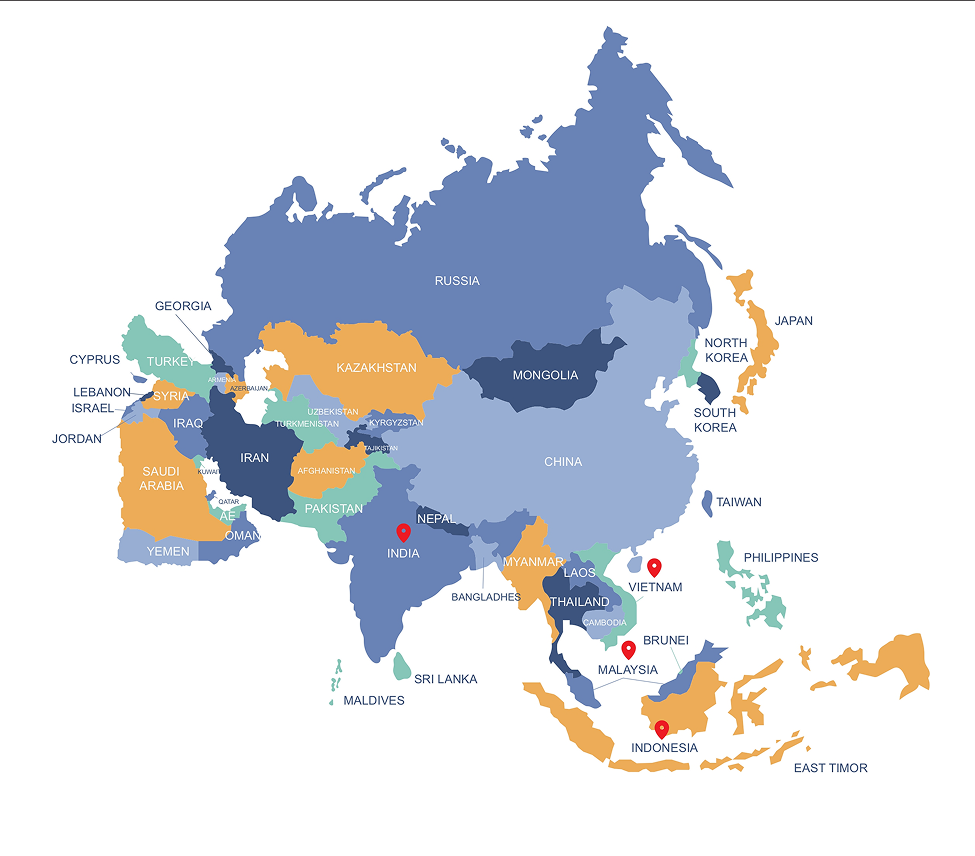
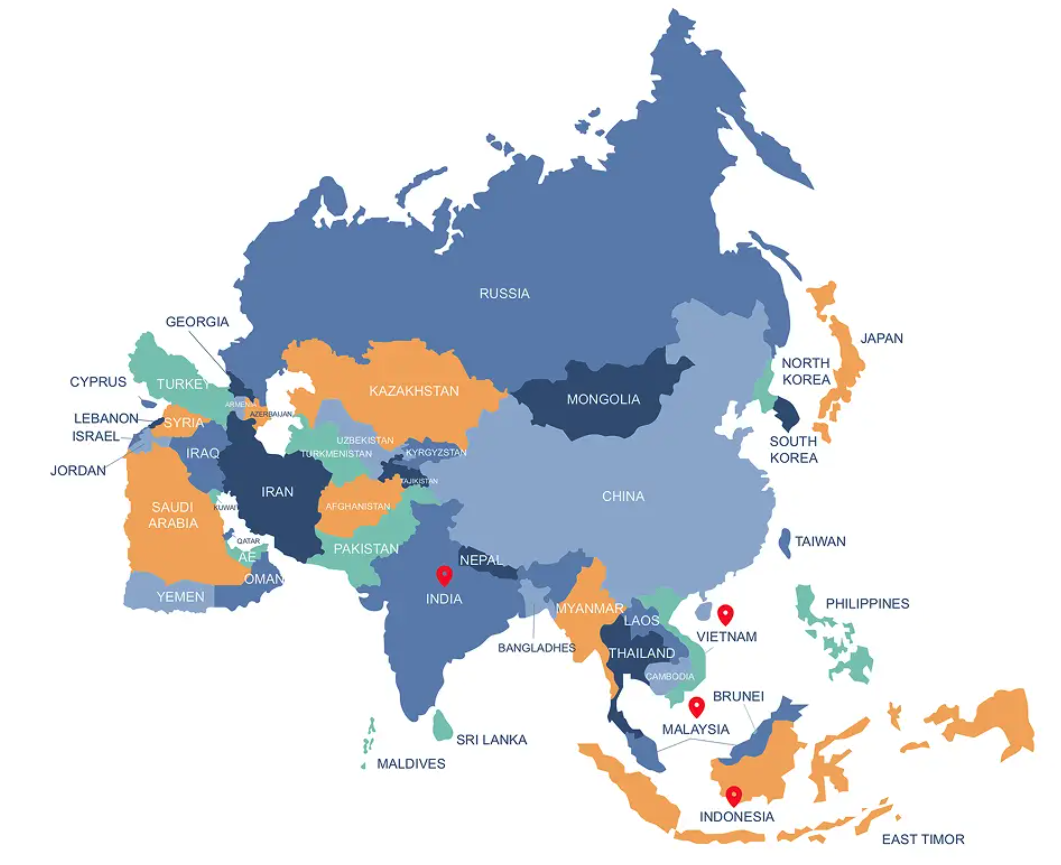
work force

diff --git a/components/WorkForce.tsx b/components/WorkForce.tsx
@@ -177,7 +177,7 @@ function WorkForce() {
 			</div>
 
 			{/* Custom Digital Integration Section */}
-			<div className="w-full border-[1px] border-black mt-12 sm:mt-20 relative">
+			<div className="w-full border-[1px] border-gray-300 mt-12 sm:mt-20 relative">
 				<div className="bg-gradient-to-b from-[#f75c24] to-[#f78b26] h-fit px-4 sm:px-[6%] py-6 sm:py-[6%] w-full lg:w-[65%] ml-0 lg:ml-[6%] mb-[-150px] sm:mb-[-300px] z-10 relative">
 					<h3 className="text-xl sm:text-2xl font-bold text-white mb-2">
 						3. Custom Digital Integration & Co-Development
@@ -309,6 +309,40 @@ function WorkForce() {
 								(e.g., VSIP, VGU)
 							</li>
 						</ul>
+					</div>
+				</div>
+
+				<div>
+					<div className="p-[6%] flex justify-end w-full">
+						<Image
+							src="/map.png"
+							alt="logo"
+							width={1200}
+							height={700}
+							className="w-full sm:w-[70%] z-0 object-contain"
+						/>
+					</div>
+
+					<div className="px-[6%] pb-[6%] mt-[-120px] sm:mt-[-150px]">
+						<h2 className="text-4xl font-bold mb-2 text-quansk-orange">
+							<span className="text-quansk-orange">Regional Reach</span> –
+						</h2>
+						<h2 className="text-4xl font-bold text-quansk-orange mb-8">
+							Global Vision
+						</h2>
+
+						<div className="text-lg text-quansk-dark font-medium">
+							<p className="mb-2">
+								<strong className="font-extrabold">Operating across</strong>{" "}
+								Vietnam, Indonesia, Malaysia, and India
+							</p>
+							<p>
+								<strong className="font-extrabold">
+									Multi-language support:
+								</strong>{" "}
+								Vietnamese | English | Korean (coming soon)
+							</p>
+						</div>
 					</div>
 				</div>
 			</div>
